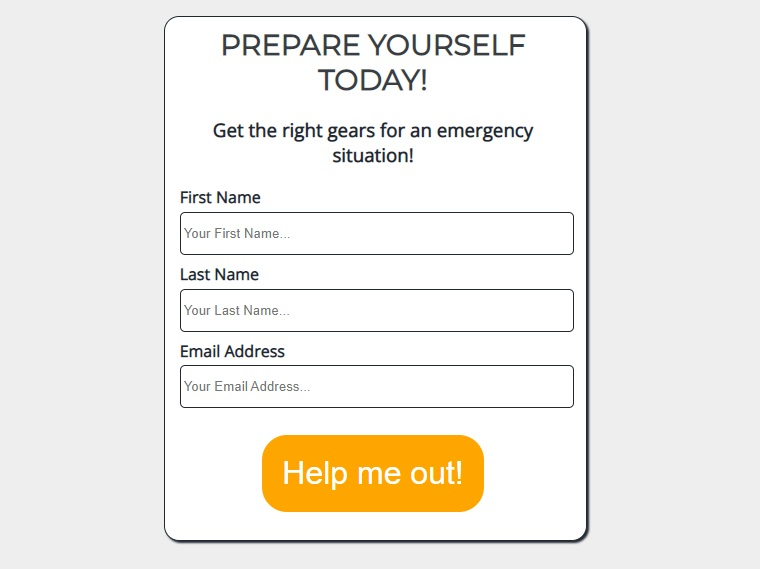
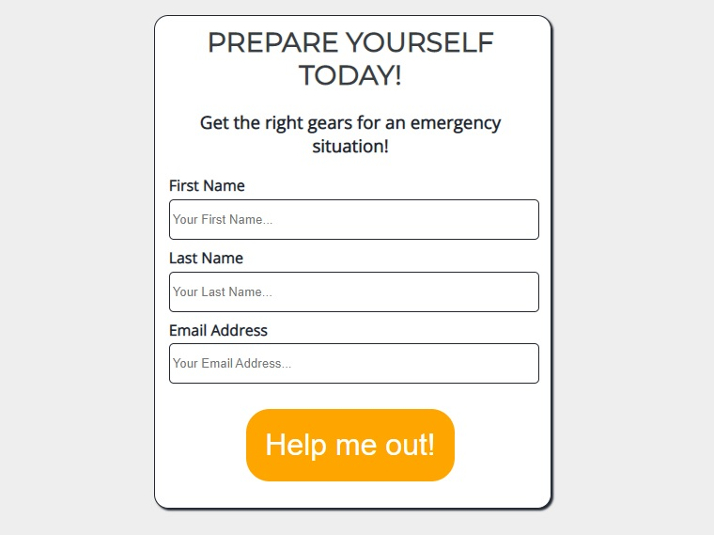
Add some text and images to readme file

diff --git a/assets/css/style.css b/assets/css/style.css
@@ -156,7 +156,7 @@ h1, h2 {
     top: 20px;
     text-align: center;
     background-color: orange;
-    color: white;
+    color: #222831;
     padding-left: 20px;
     padding-right: 20px;
 }

diff --git a/docs/README.md b/docs/README.md
@@ -71,6 +71,51 @@ Survival Tips is a site for survival enthusiasts. And also for people that will 
 
     - HTML - No errors when checked with "W3C validator".
     - CSS - No errors when checked with "Jigsaw validator".
+    - This site is responsive. Different browsers work with this site (firefox, chrome, safari, edge). All link and buttons work, "form" also works.
+    - Lighthouse report tested.
+
+## Bugs
+
+    - No bugs detected.
+
+## Unfixed bugs
+
+    - No unfixed bugs.
+
+## Technologies
+
+* **Languages used**
+
+    - HTML
+    - CSS
+
+## Programs
+
+    - Gitpod, used for code writing.
+    - Githud, store data.
+    - Git, version control.
+
+## Deployment
+
+* **Was deployed to Github pages. The steps are:**
+
+    - Github repository --> settings tab --> source section drop-down menu --> main
+    - When selected "main", page will be automatically refreshed with a detailed ribbon display to indicate the successful deployment.
+    - The site link: https://jimmythepro.github.io/survival-tips//index.html
+
+## Credits
+
+* **Content**
+
+    - Information text on this site is bought from https://www.fiverr.com/
+    - Fonts imported from https://fonts.google.com/
+    - Flexbox code layout learned from https://css-tricks.com/snippets/css/a-guide-to-flexbox/
+    - Color palette picked from https://colorhunt.co/
+
+* **Media**
+
+    - All the images taken from https://www.pexels.com/
+    - The icons is taken from https://fontawesome.com/
 
 
 
